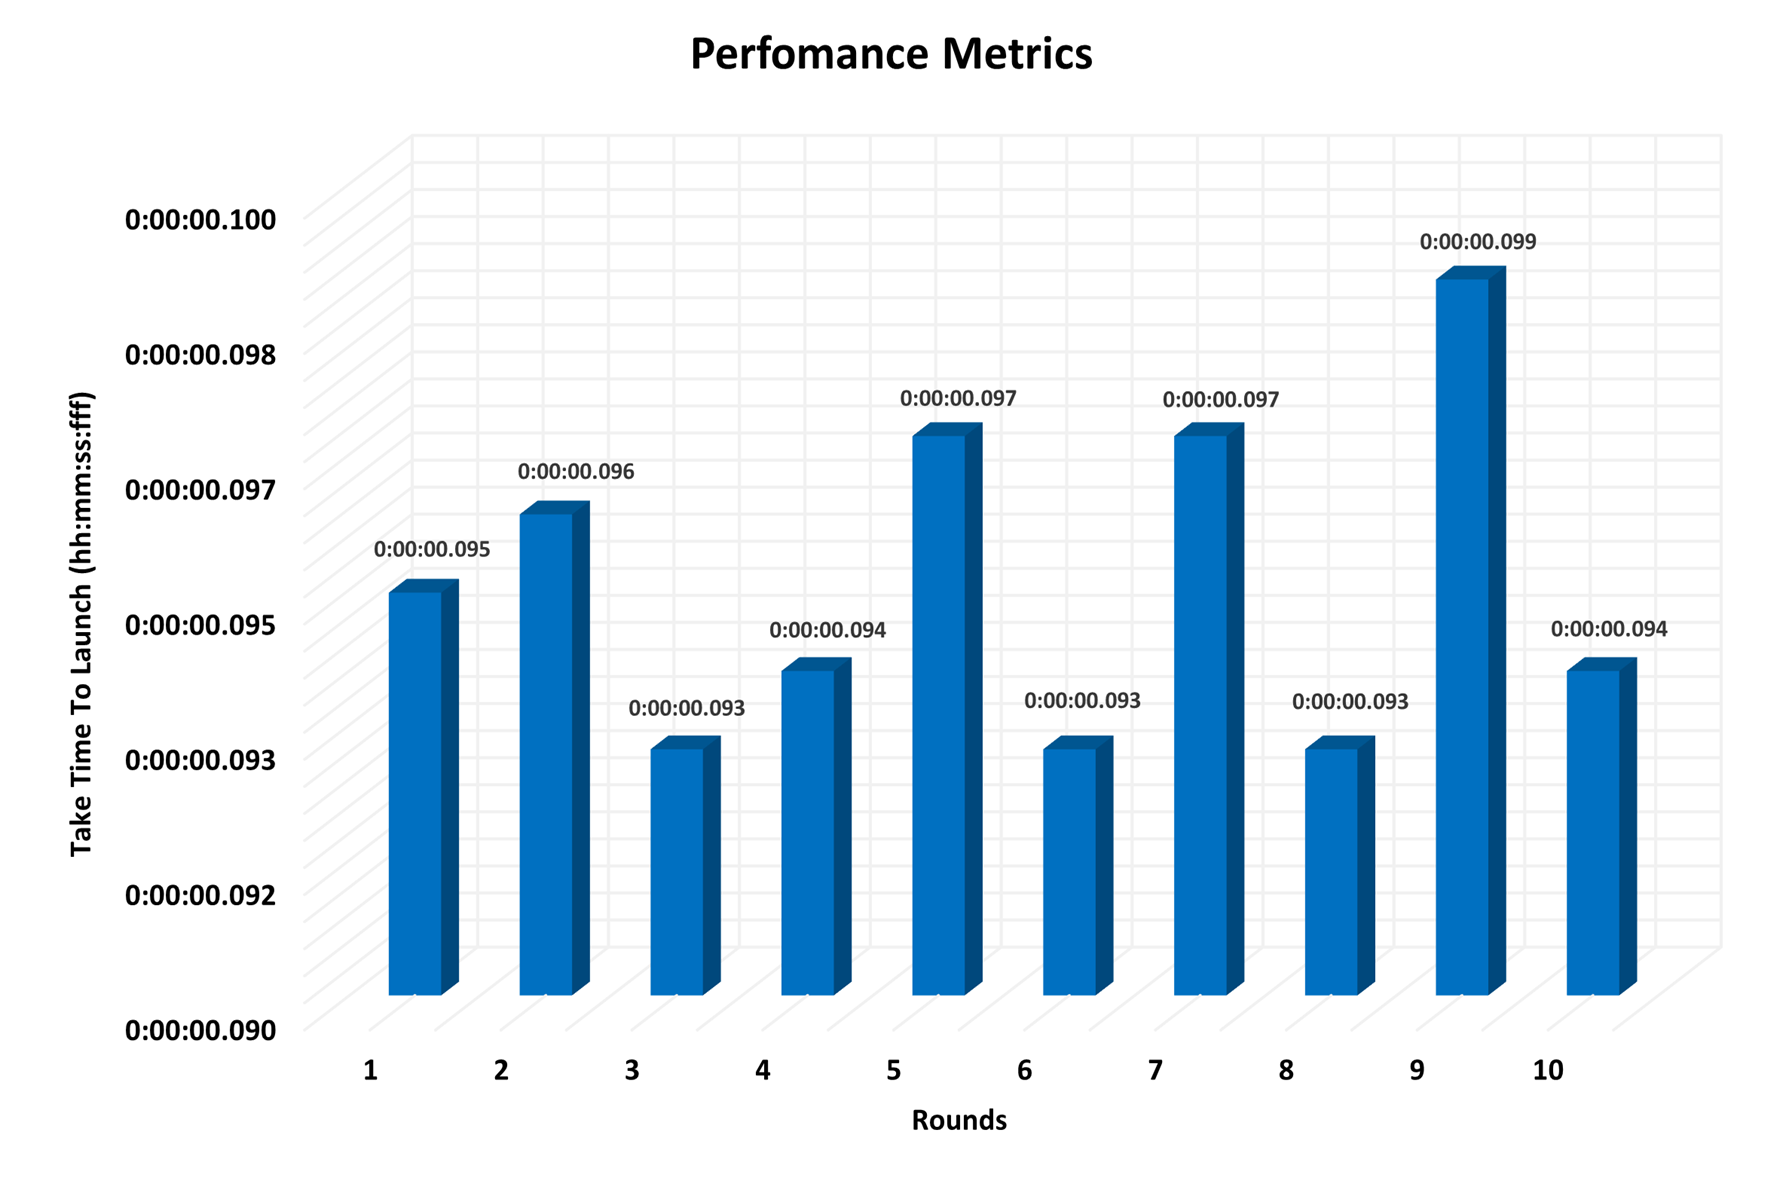
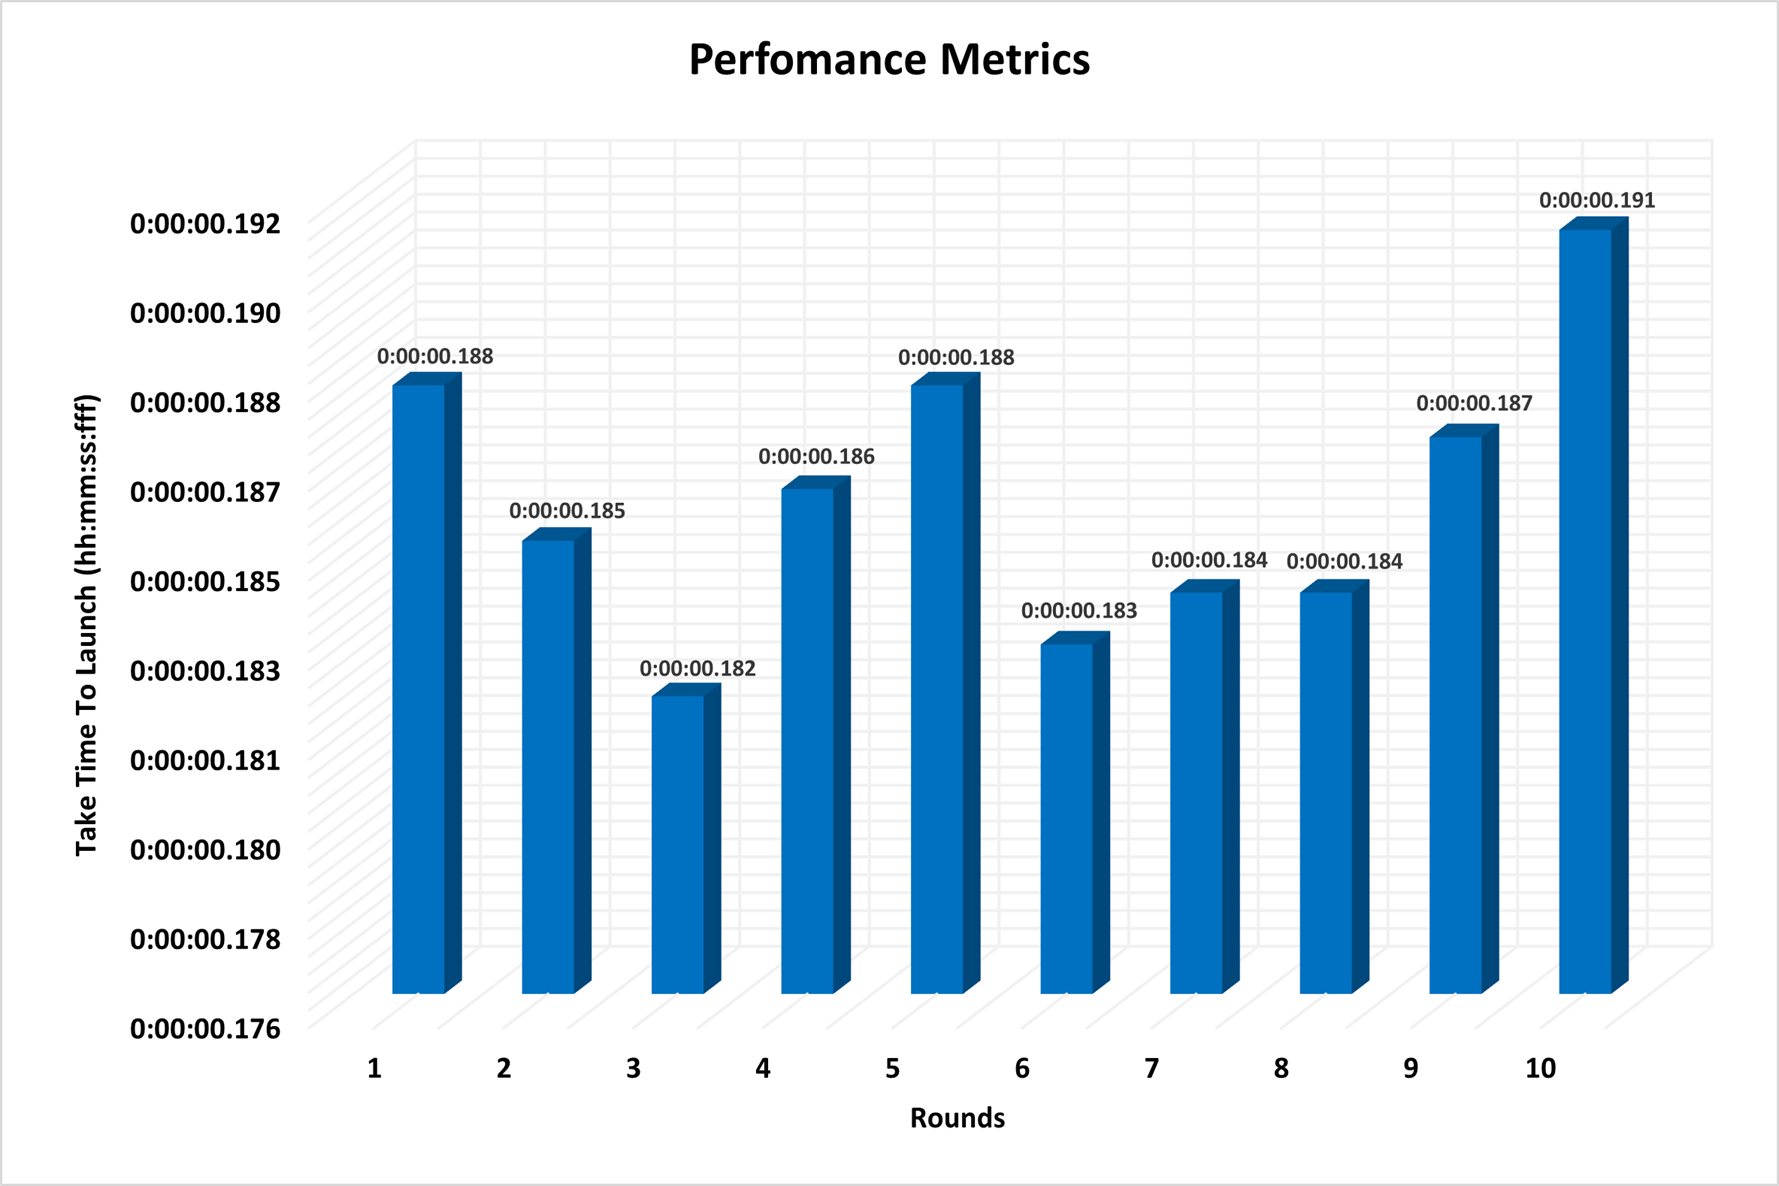
Upload v1.58

diff --git a/index.html b/index.html
@@ -67,18 +67,19 @@
             <div id="banner-wrapper" style="padding: 0px 0px 0 0px; margin-top: 0px; ">
                 <div id="banner" class="box container prevent-select prevent-pointer-events-dummy" style="border-radius: 0px;background-image1: radial-gradient(circle, #d5d348, #ffc785, #ffcfd1, #ffe9ff, #ffffff);">
                     <div class="row" style="align-items: flex-end;text-align: center; text-justify: inter-word;">
-                        <!-- Wishes Content-->
-                        <div id="WishesPanel" style="margin:0px;display:none" class="col-7dummy col-12-medium">
 
-                            <a title="Wishes" class="bannerimage hidelinkself">
-                                <img id="WishesPanelImage" style="pointer-events:none;border-radius:10px" src="images/DeltaFramework.png" alt="" width="155" height="100" />
-                            </a>
-                            <h4 style="text-shadow: 10px 5px 10px #f179ea; color: #e80892; margin: 0px; animation: glow 1s ease-in-out infinite alternate; } ">
-                                <span id="WishesPanelMessage"></span>
-                            </h4>
-                        </div>
-                        <!-- Icon & Text Content-->
+                        <!-- Wishes Content, Icon & Text Content-->
                         <div class="col-7dummy col-12-medium">
+                            <!-- Wishes Content-->
+                            <div id="WishesPanel" style="margin:0px;display:none" class="col-7dummy col-12-medium">
+
+                                <a title="Wishes" class="bannerimage hidelinkself">
+                                    <img id="WishesPanelImage" style="pointer-events:none;border-radius:10px" src="images/DeltaFramework.png" alt="" width="155" height="100" />
+                                </a>
+                                <h4 style="text-shadow: 10px 5px 10px #f179ea; color: #e80892; margin: 0px; animation: glow 1s ease-in-out infinite alternate; } ">
+                                    <span id="WishesPanelMessage"></span>
+                                </h4>
+                            </div>
 
                             <a title="DeltaFramework" class="bannerimage hidelinkself" onclick="changeMovableHeader()">
                                 <img id="image" style="pointer-events:none" src="images/DeltaFramework.png" alt="" width="53" height="53" onclick="changeMovableHeader()" />
@@ -92,7 +93,7 @@
                             </p>
 
                             <a title="DeltaFramework" class="bannerimage hidelinkself">
-                                <img id="imageBox" style="pointer-events: none;margin-top:20px" src="images/DeltaFramework-Box.png" alt="DeltaFramework-Box" width="550" height="750"  />
+                                <img id="imageBox" style="pointer-events: none;margin-top:20px" src="images/DeltaFramework-Box.png" alt="DeltaFramework-Box" width="550" height="750" />
                             </a>
                         </div>
                     </div>
@@ -467,7 +468,7 @@
             <div class="container">
                 <div class="row">
                     <div class="col-4 col-12-medium">
-                        <!-- Box -->
+                        <!-- Box DeltaFramework-Libraries-->
                         <section class="box feature">
                             <div class="inner">
                                 <header>
@@ -488,7 +489,7 @@
                         </section>
                     </div>
                     <div class="col-4 col-12-medium">
-                        <!-- Box -->
+                        <!-- Box DeltaFramework-ProjectTemplate-->
                         <section class="box feature">
                             <div class="inner">
                                 <header>
@@ -516,15 +517,17 @@
                             </a>
                         </section>
                     </div>
+
                     <div class="col-4 col-12-medium">
-                        <!-- Box -->
+                        <!-- Box DeltaFramework-Libraries-PerformanceInsight 1-->
                         <section class="box feature">
                             <div class="inner">
                                 <header>
                                     <h2><img src="images/TechIcon/Performance.png" alt="Performance" title="Performance" width="27" height="25" /> Performance Insight</h2>
                                     <p>
                                         <b>
-                                            DeltaFramework provides numerous built-in features while maintaining high performance.
+                                            DeltaFramework is meticulously designed for high-performance, offering an array of built-in features while consistently maintaining high efficiency.
+                                            Each version aims to elevate user experience and streamline application development, ensuring optimal functionality and responsiveness.
                                             Below is a comparison of different library versions.
                                         </b>
                                     </p>
@@ -537,16 +540,17 @@
                         </section>
                     </div>
                     <div class="col-4 col-12-medium">
-                        <!-- Box -->
+                        <!-- Box DeltaFramework-Libraries-PerformanceInsight-latest 2-->
                         <section class="box feature">
                             <div class="inner">
                                 <header>
                                     <h2><img src="images/TechIcon/Performance.png" alt="Performance" title="Performance" width="27" height="25" /> Performance Insight</h2>
                                     <p>
                                         <b>
-                                            DeltaFramework library v4.0.0 detailed overview of performance insights. <br>
+                                            DeltaFramework Library v5.0.0:
+                                            This version offers significant performance enhancements, numerous built-in features, and optimized efficiency. Dive into the detailed performance insights to understand how DeltaFramework continues to set new standards in high-performance design. <br>
                                             Result: <span style="color:#C70039;">
-                                                95 Milliseconds
+                                                186 Milliseconds
                                                 <img src="images/TechIcon/Fire.gif" alt="🔥" width="22" height="22">
                                                 <img src="images/TechIcon/Rocket.gif" alt="🚀" width="22" height="22">
                                             </span>
@@ -560,6 +564,7 @@
                             </a>
                         </section>
                     </div>
+
                 </div>
             </div>
         </div>
@@ -615,13 +620,13 @@
                                 <div class="slider-wrapper">
                                     <div class="card-list-center swiper-wrapper">
                                         <div class="card-item-center swiper-slide">
-                                            <p class="card-item-new-message-header">DeltaFramework v4.0.0 is released with .NET 9</p>
+                                            <p class="card-item-new-message-header">DeltaFramework v5.0.0 released</p>
                                         </div>
                                         <div class="card-item-center swiper-slide">
-                                            <p class="card-item-new-message-header">WIP: AI Integration</p>
+                                            <p class="card-item-new-message-header">AI Integration Done</p>
                                         </div>
                                         <div class="card-item-center swiper-slide">
-                                            <p class="card-item-new-message-header">WIP: .NET Aspire Integration</p>
+                                            <p class="card-item-new-message-header">WIP: Next DeltaFramework version</p>
                                         </div>
                                         <!--<div class="card-item swiper-slide">
                                             <img src="images/img-2.jpg" alt="card Image" class="card-image">
@@ -726,9 +731,12 @@
                                 <li>
                                     <!--Designed by Thiruvarasamurthy G-->
                                     <div id="copyrightMessage">Copyright &copy; DeltaFramework 2024 - </div>
-                                    DeltaFramework Version: 4.0.0<br>
-                                    Website Version: 1.57<br>
-                                    Updated Date: December 18, 2024<br>
+                                    DeltaFramework Info:<br>
+                                    Version: 5.0.0
+                                    Date: February 26, 2025<br>
+                                    Website Info:<br>
+                                    Version: 1.58
+                                    Date: February 27, 2025<br>
                                     All rights reserved<br>
                                     <a class="hidelink" style="display: inline-block; margin: 0px 0px 0px 0px; text-decoration: none; -webkit-tap-highlight-color: transparent;" href="info.html" title="Credits" target="_blank"> Credits </a> |
                                     <a class="hidelink" style="display: inline-block; margin: 0px 0px 0px 0px; text-decoration: none; -webkit-tap-highlight-color: transparent;" href="fireworks.html" title="Events" target="_blank"> Events </a>

diff --git a/assets/js/main.js b/assets/js/main.js
@@ -51,7 +51,7 @@ function changeMovableHeader() {
 }
 
 document.addEventListener("DOMContentLoaded", function () {
-
+    //Format is MM-DD
     const dateInfo = {
         "01-01": {
             image: "images/WishesIcon/WISH.png",
@@ -69,15 +69,15 @@ document.addEventListener("DOMContentLoaded", function () {
             image: "images/WishesIcon/WISH.png",
             message: "Happy Birtyday DeltaFramework!"
         },
-        "08-20": {
+        "-08-20": {
             image: "images/WishesIcon/WISH.png",
             message: "Happy Birtyday Author!"
         },
-        "08-21": {
+        "-08-21": {
             image: "images/WishesIcon/WISH.png",
             message: "Belated Happy Birtyday Author!"
         },
-        "04-06": {
+        "-04-06": {
             image: "images/WishesIcon/WISH.png",
             message: "Happy Birtyday SivSank-SD!"
         }
